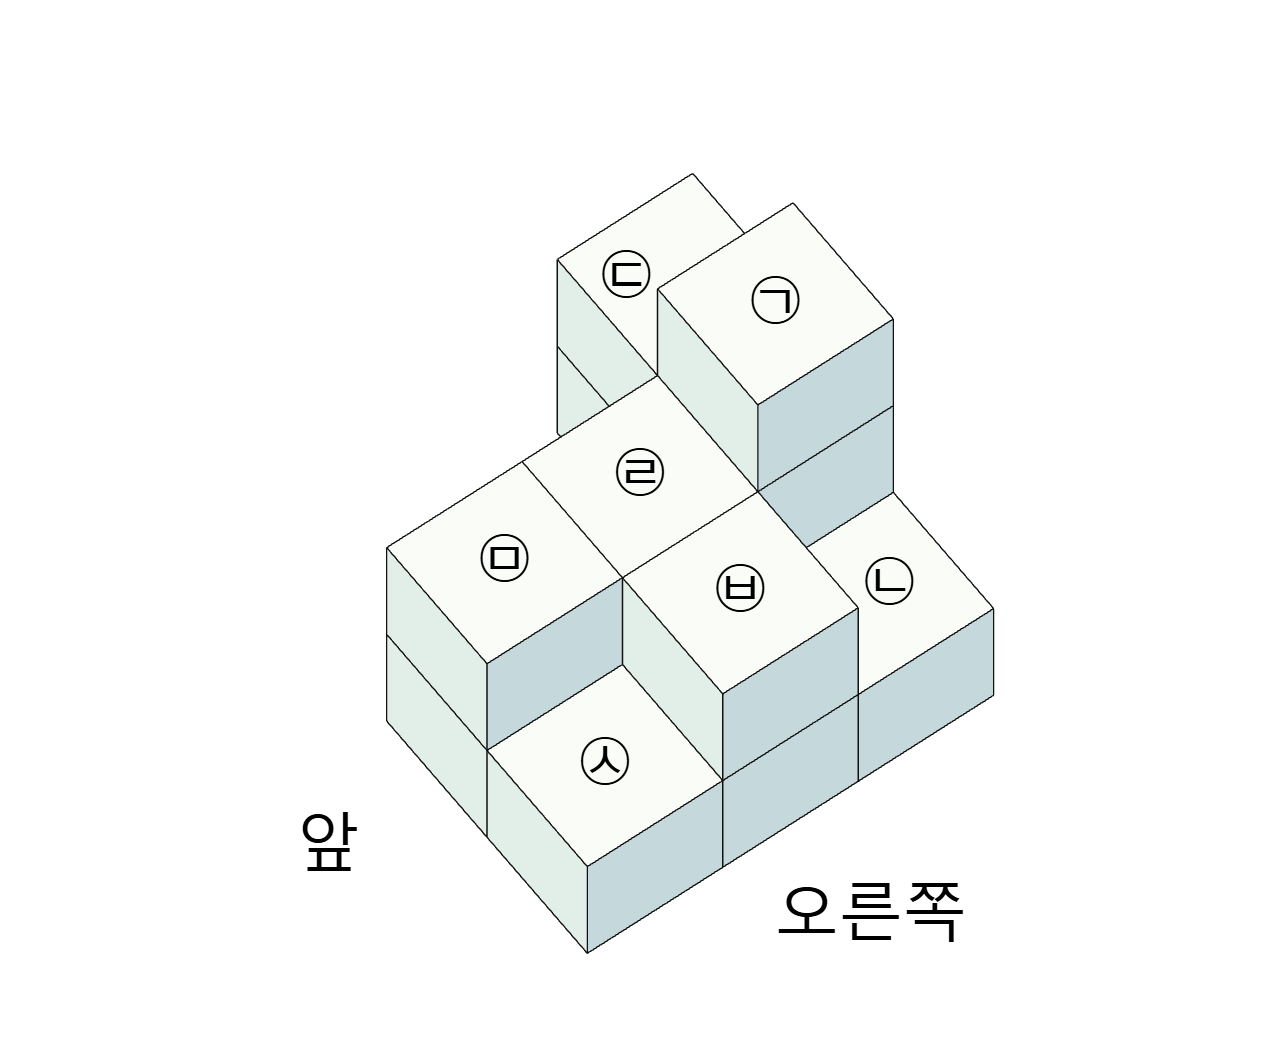
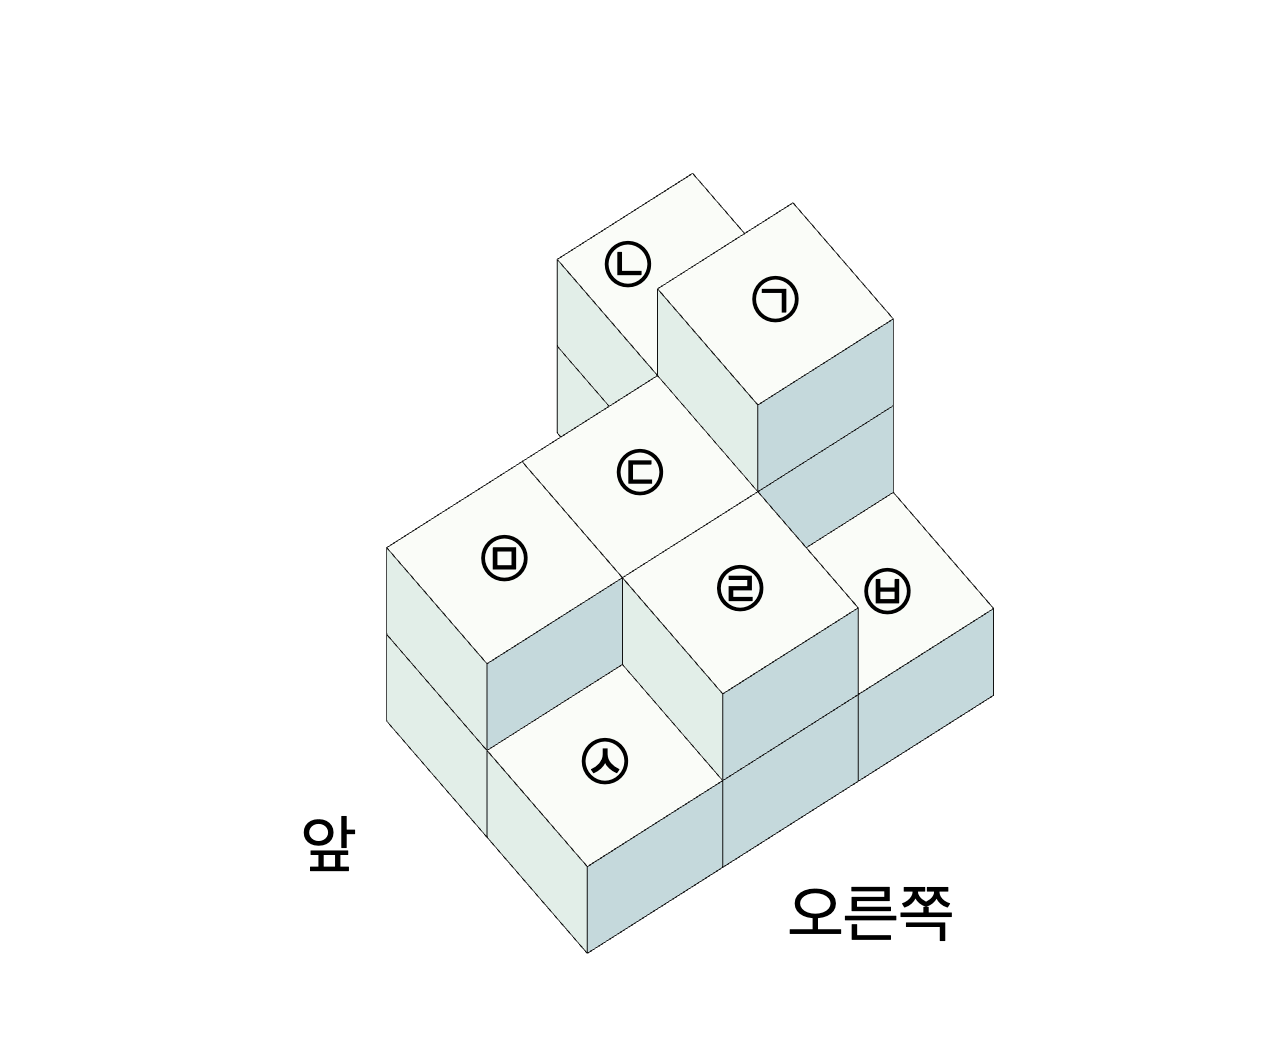
hselementary: 6-2 채점본 대조 — 공간과 입체 예제 1-2 기호 위치를 원문대로
- 6-2 정본 PDF가 채점된 학생 손글씨본임을 확인하고 1~6단원 355항목을 대조했다.
- 3단원 예제 1-2: 쌓기나무 높이는 원문과 같지만 ㉡·㉢·㉣·㉥ 기호 위치가 원문 그림과 달라 답이 ㉡, ㉣, ㉦이었다. 원문 기호로 ㉢, ㉥, ㉦(채점 답과 일치).
  labelledColumns, 감사 기대값 3개, 학습자 그림 PNG 3장과 manifest 해시를 고쳤다.
- 그 밖의 앱 정답 오류는 없었다. 유사 수치 항목·해석 차이(3단원 Mission 4)·덧입힌 3300(4단원 예제 6-4)은 HANDOVER에 기록했다.

diff --git a/hselementary/question-bank/source-6-2-stack-operation-learner-audit.js b/hselementary/question-bank/source-6-2-stack-operation-learner-audit.js
@@ -10,7 +10,7 @@ const read = file => fs.readFileSync(path.join(__dirname, file), "utf8");
 const SOURCES = [
   { sourceItemId: "6-2-u3-e1-example-2", key: "sourceGrade6SecondSpaceE1StackRemovalLabels",
     pools: [[[2,3,1],[0,2,2],[0,2,1]], [[3,3,1],[0,2,2],[0,2,1]], [[2,3,1],[0,2,2],[0,3,1]]],
-    columns: [[1,0],[2,0],[0,0],[1,1],[1,2],[2,1],[2,2]] },
+    columns: [[1,0],[0,0],[1,1],[2,1],[1,2],[2,0],[2,2]] },
   { sourceItemId: "6-2-u3-e1-mission-5", key: "sourceGrade6SecondSpaceE1StackAddViews",
     pools: [[[0,0,2],[3,2,1],[1,0,0]], [[0,0,3],[3,2,1],[1,0,0]], [[0,0,2],[4,2,1],[1,0,0]]],
     add: [[0,2,2],[1,1,1]], columns: [[0,2],[1,1]] },
@@ -147,9 +147,9 @@ function selfTest() {
     cases++;
   }
   const original = oracle(SOURCES[0],0);
-  assert.deepEqual(original.primary,[label(1),label(3),label(6)]); assert.deepEqual(original.secondary,[label(1),label(6)]);
+  assert.deepEqual(original.primary,[label(2),label(5),label(6)]); assert.deepEqual(original.secondary,[label(5),label(6)]);
   const topFiltered = original.trials.filter(trial => trial.qualifies && !trial.changesTop).map(trial => trial.label);
-  assert.deepEqual(topFiltered,[label(3)]); assert.throws(() => assert.deepEqual(topFiltered,original.primary));
+  assert.deepEqual(topFiltered,[label(2)]); assert.throws(() => assert.deepEqual(topFiltered,original.primary));
   assert.deepEqual(SOURCES[2].pools.map((_,v) => oracle(SOURCES[2],v).total),[11,12,12]);
   const context = {window:{HSE_GENERATORS:{names:[],generatorKey:()=>"",generate:()=>null}}};
   for (const file of ["source-6-2-stack-models.js","source-6-2-stack-operations.js","source-6-2-stack-operation-question-contracts.js","source-6-2-stack-operation-questions.js"]) vm.runInNewContext(read(file),context,{filename:file});

diff --git a/hselementary/question-bank/source-6-2-stack-operation-question-contracts-audit.js b/hselementary/question-bank/source-6-2-stack-operation-question-contracts-audit.js
@@ -15,7 +15,7 @@ const label = index => String.fromCodePoint(0x3260 + index);
 // Occupancy, removal, additions and full silhouettes below are computed without solve().
 const fixtures = [
   { sourceItemId: id("example-2"), sourceHeights: [[2,3,1],[0,2,2],[0,2,1]],
-    columns: [[1,0],[2,0],[0,0],[1,1],[1,2],[2,1],[2,2]] },
+    columns: [[1,0],[0,0],[1,1],[2,1],[1,2],[2,0],[2,2]] },
   { sourceItemId: id("mission-5"), sourceHeights: [[0,0,2],[3,2,1],[1,0,0]],
     additions: [[0,2,2],[1,1,1]] },
   { sourceItemId: id("mission-6"), sourceHeights: [[0,2,2,1],[2,3,0,0],[0,1,0,0]],
@@ -191,8 +191,8 @@ for (const fixture of fixtures) for (let variant = 0; variant < 3; variant++) {
   assert(levels[0].reasoningSteps.length < levels[1].reasoningSteps.length);
   assert(levels[2].reasoningSteps.length > levels[1].reasoningSteps.length);
 }
-for (const level of [0, 1, 2]) assert.deepEqual(api.generate(id("example-2"), 0, level).answerLabels, [label(1), label(3), label(6)]);
-assert.deepEqual(api.generate(id("example-2"), 0, 2).secondaryAnswerLabels, [label(1), label(6)]);
+for (const level of [0, 1, 2]) assert.deepEqual(api.generate(id("example-2"), 0, level).answerLabels, [label(2), label(5), label(6)]);
+assert.deepEqual(api.generate(id("example-2"), 0, 2).secondaryAnswerLabels, [label(5), label(6)]);
 assert.deepEqual(api.generate(id("mission-5"), 0, 1).answerViews, { right: [3,3,2] });
 assert.deepEqual(api.generate(id("mission-5"), 0, 1).afterHeights, [[0,0,2],[3,3,1],[3,0,0]]);
 assert.deepEqual(api.generate(id("mission-6"), 0, 2).answerViews, {

diff --git a/hselementary/question-bank/source-6-2-stack-operations-audit.js b/hselementary/question-bank/source-6-2-stack-operations-audit.js
@@ -48,10 +48,10 @@ for(const definition of api.definitions)for(let variant=0;variant<3;variant++){
   cases++;
 }
 const example=api.solve(id("example-2"));
-assert.deepEqual(example.answer,["\u3261","\u3263","\u3266"]);
-assert.deepEqual(example.trials.map(t=>t.target),[[1,2,0],[2,0,0],[0,1,0],[1,1,1],[1,1,2],[2,1,1],[2,0,2]]);
+assert.deepEqual(example.answer,["\u3262","\u3265","\u3266"]); // 원문 32쪽 그림의 기호 위치(채점된 답 ㉢, ㉥, ㉦)
+assert.deepEqual(example.trials.map(t=>t.target),[[1,2,0],[0,1,0],[1,1,1],[2,1,1],[1,1,2],[2,0,0],[2,0,2]]);
 assert.deepEqual(example.original.front,[2,3,2]);assert.deepEqual(example.original.right,[2,2,3]);
-assert.deepEqual(example.trials.filter(t=>t.qualifies&&equal(t.after.top,example.original.top)).map(t=>t.label),["\u3263"],"Adding top-view preservation changes the original answer");
+assert.deepEqual(example.trials.filter(t=>t.qualifies&&equal(t.after.top,example.original.top)).map(t=>t.label),["\u3262"],"Adding top-view preservation changes the original answer");
 const allRemovals=example.cells.filter(cell=>{
   // Actual occupied silhouettes, not only maximum heights: a lower removal can expose a hole.
   const project=cells=>({front:new Set(cells.map(([x,y])=>`${x},${y}`)),right:new Set(cells.map(([,y,z])=>`${z},${y}`))});

diff --git a/hselementary/question-bank/index.html b/hselementary/question-bank/index.html
@@ -839,7 +839,7 @@
   <script defer src="./source-6-2-stack-models.js?v=bank-20261010a"></script>
   <script defer src="./source-6-2-stack-questions.js?v=bank-20261010a"></script>
   <script defer src="./source-6-2-stack-observation.js?v=bank-20261012a"></script>
-  <script defer src="./source-6-2-stack-operations.js?v=bank-20261012a"></script>
+  <script defer src="./source-6-2-stack-operations.js?v=20261123-book-labels"></script>
   <script defer src="./source-6-2-stack-operation-question-contracts.js?v=bank-20261012a"></script>
   <script defer src="./source-6-2-stack-operation-questions.js?v=bank-20261012a"></script>
   <script defer src="./source-6-2-stack-count-models.js?v=bank-20261012c"></script>

diff --git a/hselementary/question-bank/source-6-2-stack-operations.js b/hselementary/question-bank/source-6-2-stack-operations.js
@@ -7,7 +7,7 @@
   const models = typeof module !== "undefined" ? require("./source-6-2-stack-models.js") : window.HSE_SOURCE_GRADE6_STACK_MODELS;
   const definitions = freeze([
     {sourceItemId:"6-2-u3-e1-example-2",operation:"remove-one-labelled-top",requestedViews:["front","right"],
-      labelledColumns:[[1,0],[2,0],[0,0],[1,1],[1,2],[2,1],[2,2]],
+      labelledColumns:[[1,0],[0,0],[1,1],[2,1],[1,2],[2,0],[2,2]],
       pools:[[[2,3,1],[0,2,2],[0,2,1]],[[3,3,1],[0,2,2],[0,2,1]],[[2,3,1],[0,2,2],[0,3,1]]]},
     {sourceItemId:"6-2-u3-e1-mission-5",operation:"add-to-labelled-columns",requestedViews:["right"],givenViews:["top"],
       additions:[{column:[0,2],count:2},{column:[1,1],count:1}],

diff --git a/hselementary/question-bank/HANDOVER.md b/hselementary/question-bank/HANDOVER.md
@@ -13,7 +13,12 @@
   - 6단원 Mission 3(인쇄 59쪽): 계단 전개도의 높이 순서를 거꾸로(6→4→10) 넣어 3cm였다. 원문은 높이 20→10→6, 폭 □·18·10(밑면 28+□) → 7cm(선생님 빨간 답 7과 일치). source-grade6-volume-e3-mission3.js 풀 0·감사 수정.
   - 그 밖: 원문 수치 그대로가 아니라 유사·창작 수치로만 있는 항목이 1단원 10, 2단원 9, 6단원 12개 등 있다(답은 각자 수치로 맞음). 학생 답이 틀리고 앱이 맞은 항목 다수(직접 재풀이로 확인).
   - 6-1 전 유형 412개 재생성: 바뀐 것은 위 수정 유형뿐.
-- 6-2: 채점본 없음(Drive의 6-2 심화 두 파일은 깨끗한 책). 원문 유형의 독립 검산 감사 결과를 그대로 둔다.
+- 6-2 채점본: 정본 PDF 자체(`생각하는 황소 교재/6-2 심화 (정답수정).pdf`, SHA-256 69035C63…, 149쪽)가 학생 손글씨 + 빨간 채점 표시가 있는 채점본이다(앞서 '없음'이라 한 것은 `주연11월/교재/황소/황소초등교재/황소 6-2심화.pdf`·`황소 6-2 심화.pdf` 두 깨끗한 판만 본 착오). 스캔 쪽 = 장부 pdfPage. 1~6단원 355항목 대조(하위 에이전트 6개, 앱 오류·애매 판정은 직접 다시 확인):
+  - 3단원 예제 1-2(인쇄 32쪽): 쌓기나무 높이 배치는 원문과 같지만 기호 ㉡·㉢·㉣·㉥의 위치가 원문 그림과 달랐다(원문: ㉡ 뒷줄 왼쪽, ㉢ 가운데 줄 가운데, ㉣ 가운데 줄 오른쪽, ㉥ 뒷줄 오른쪽). 원문 기호로 답은 ㉢, ㉥, ㉦(채점 답과 일치; 앱은 ㉡, ㉣, ㉦). source-6-2-stack-operations.js labelledColumns, 감사 3개(stack-operations, question-contracts, operation-learner) 기대값, 학습자 그림 PNG 3장(assets/source-6-2-operations-v3, 같은 렌더러 `source-6-2-stack-renderer.mjs` snapshot 640×520·pixelRatio 2·camera [1.35,2.8,1]로 다시 출력)과 manifest 해시를 고쳤다. 변형 풀 1·2도 답 ㉢, ㉥, ㉦. PNG의 기호 글꼴은 원래 출력 환경의 글꼴이 아니라 앱 글꼴(Pretendard)이다. operation-learner 감사는 manifest가 가리키는 `source-6-2-stack-operation-review.html`이 저장소에 없어 이전부터 ENOENT로 실패한다.
+  - 앱 정답 오류는 그 밖에 없음. 원문 수치와 다른 유사 수치로만 있는 항목: 1단원 예제 3-4(14/13→8/7), Mission 3(가장 작은 몫→가장 큰 몫), 2단원 개념탐구 1(보기 번호), Mission 3(강물 속력 조건 보정), 5단원 예제 2 Mission 1(25→30cm²), 6단원 개념탐구 2(90.24→100.24cm), Mission 2(111→81cm). 각자 수치로 답은 맞다.
+  - 해석 차이: 3단원 Mission 4(인쇄 39쪽) 쌓기나무 4개 모양에 1개 더 쌓기 — 붙일 수 있는 자리 10곳은 바닥에서 돌리기만 하면 모두 다르고(10가지, 선생님 채점 답), 통째로 돌려 겹치면 7가지다. 원문 단서는 "돌렸을 때 같은 모양은 한 가지"뿐이라 둘 다 읽힌다. 앱은 '통째로 돌려서' 조건을 문장에 적어 7가지로 일관되므로 그대로 둔다.
+  - 4단원 예제 6-4(인쇄 52쪽) 답 칸에 손글씨 대신 파란 활자 "3300"이 덧입혀져 있으나 인쇄 조건(15:9, 8:7, 3:2, 700개)으로는 3750개다(앱 답 유지).
+  - 학생 답이 틀리고 앱이 맞은 항목 다수(2단원 12, 6단원 7 등, 모두 다시 풀어 확인). 빨간 동그라미가 있어도 틀린 답이 있다(6단원 Mission 5·6, 예제 4-3).
 
 ## 2026-11-22 (후속) — 분수 표기·자릿값 표시·인쇄 쪽 나눔 보정 (Claude Code / Opus 5.5, Mac)
 
